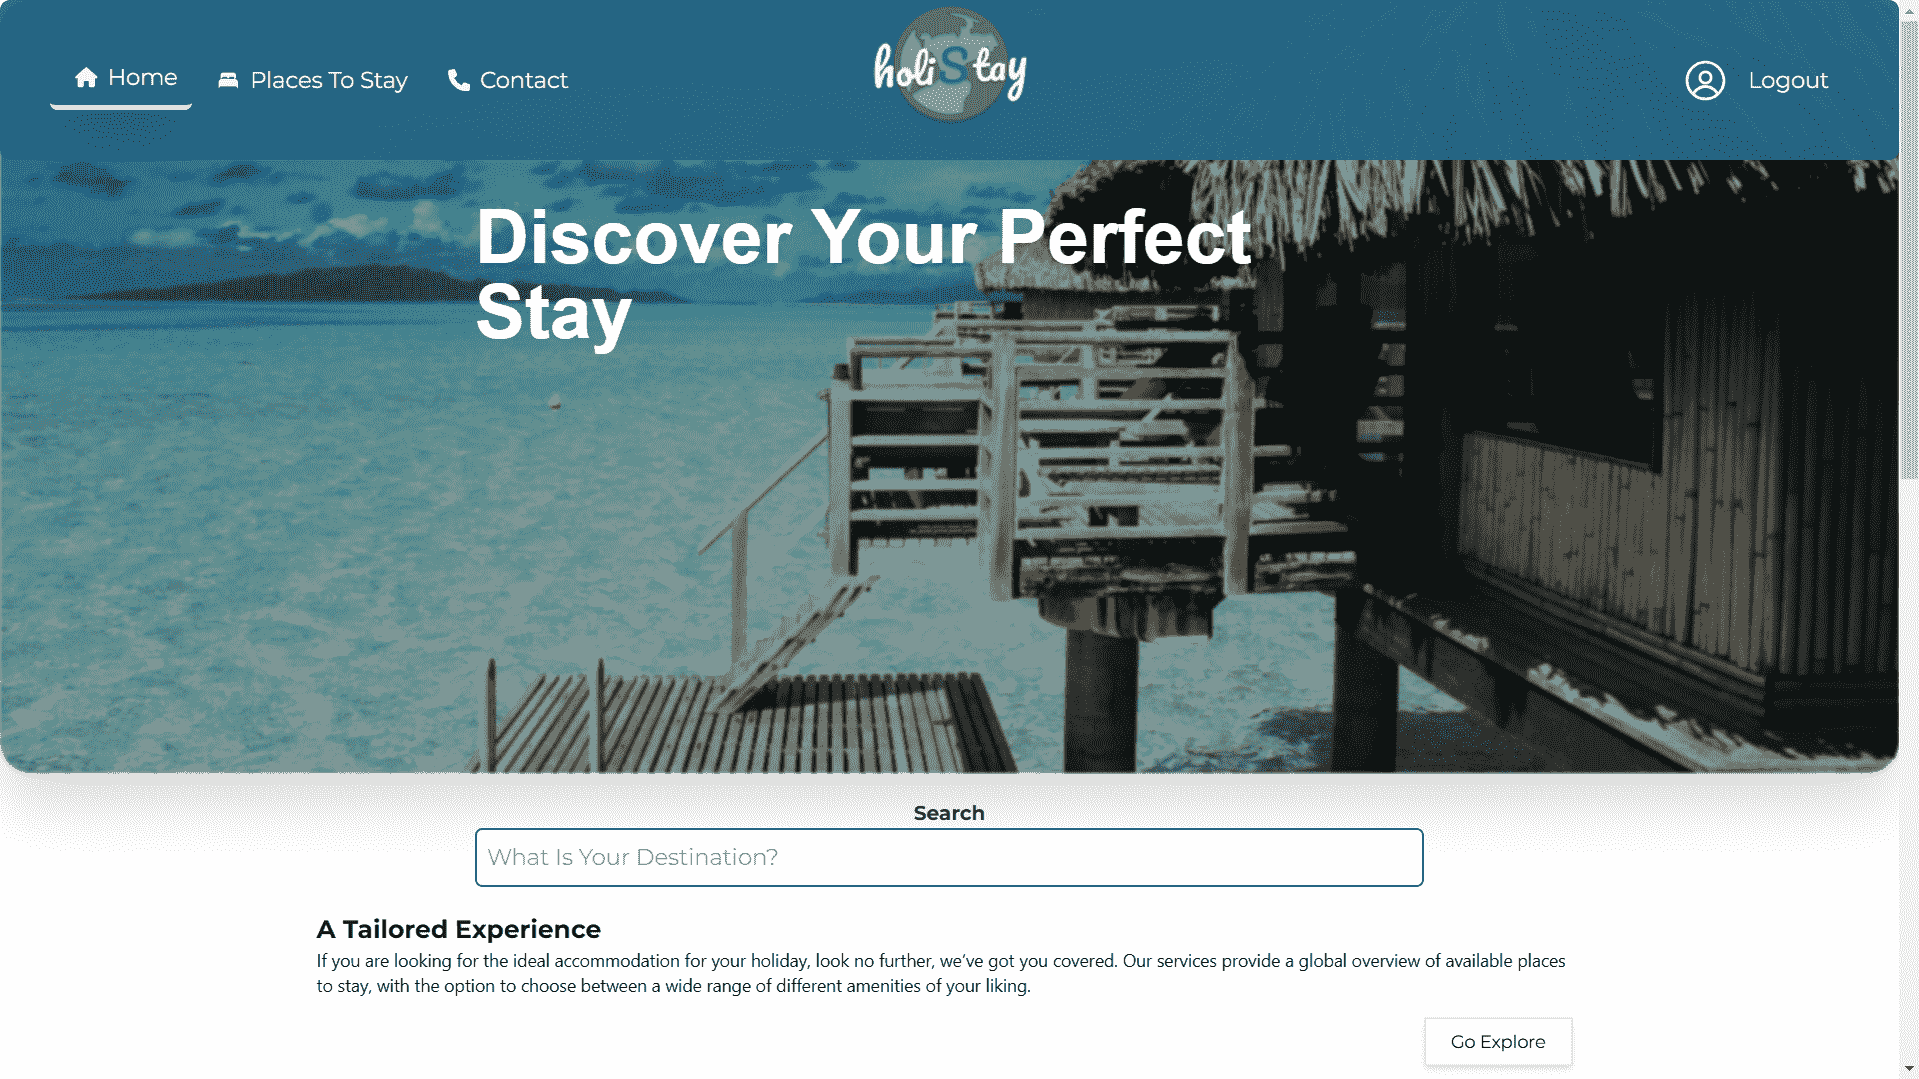
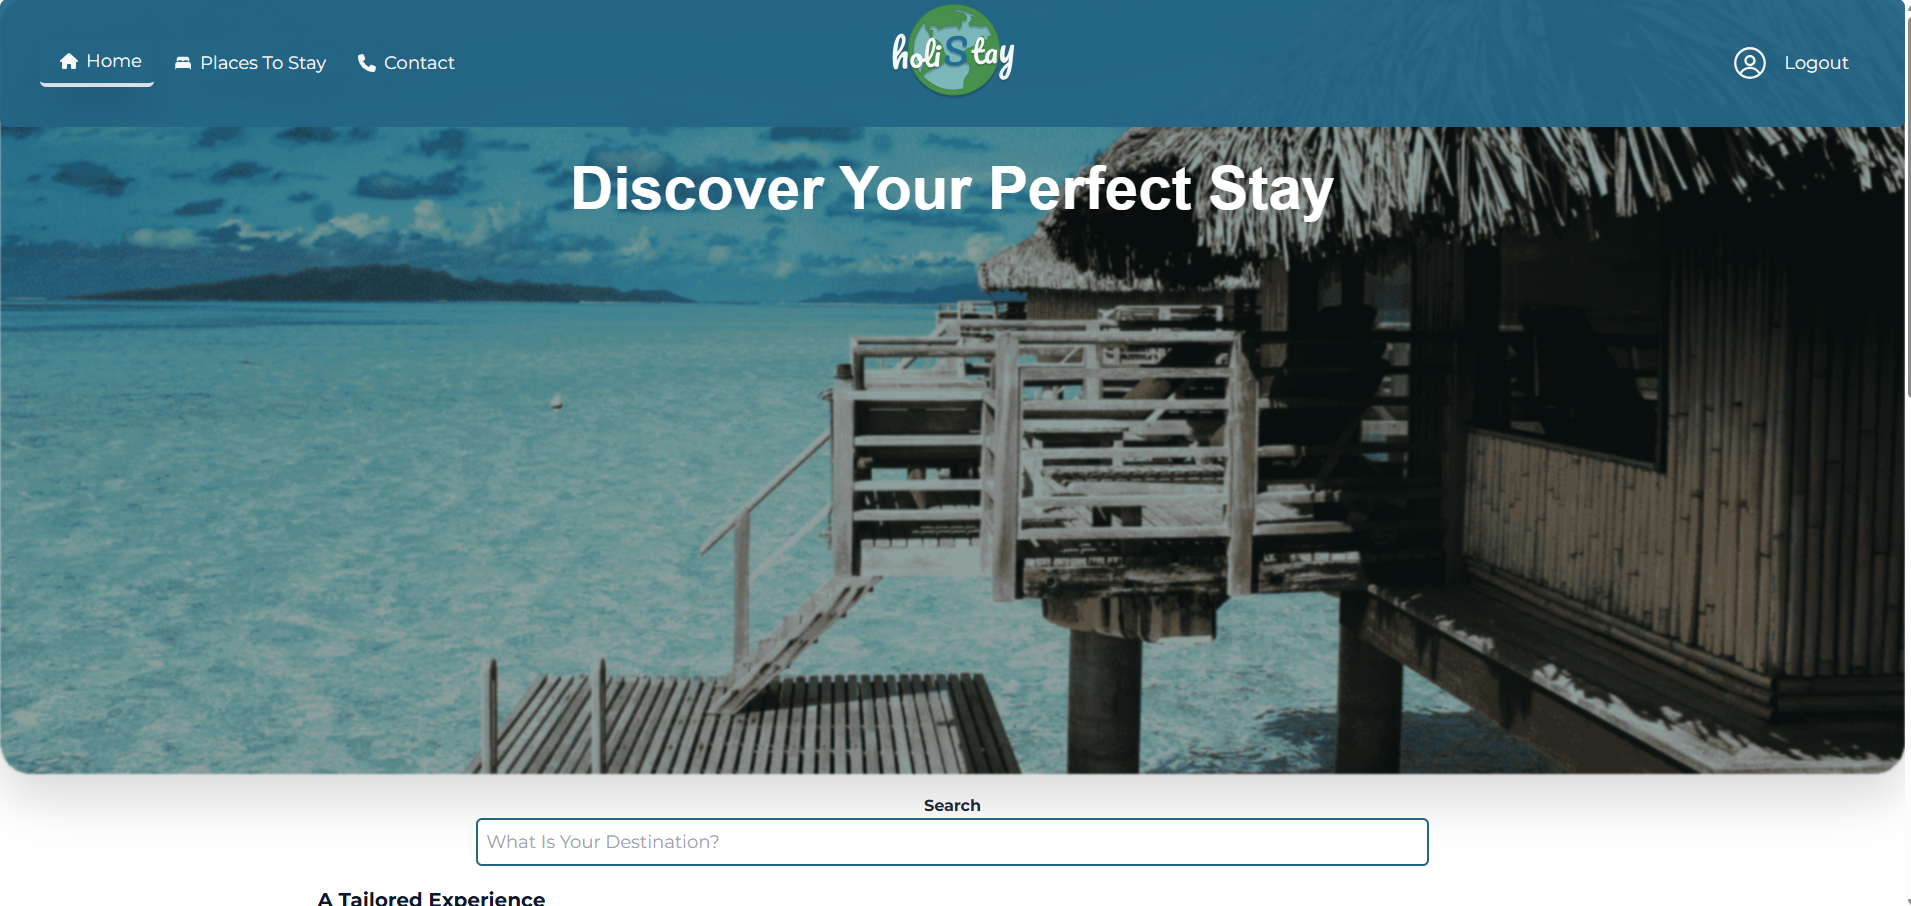
Edit styling in the homepage title

diff --git a/src/pages/Home.tsx b/src/pages/Home.tsx
@@ -22,7 +22,7 @@ const Home: React.FC = () => {
         alt="A beach view from a beachside-bungalow porch"
         className="w-full m-auto blur-xs relative rounded-3xl drop-shadow-2xl"
       />
-      <h1 className="absolute top-20 sm:top-40 left-1/2 transform -translate-x-1/2 text-sm sm:text-2xl md:text-3xl lg:text-4xl 2xl:text-6xl font-bold text-white mx-auto">
+      <h1 className="absolute top-20 sm:top-40 left-1/2 transform -translate-x-1/2 text-sm sm:text-2xl md:text-3xl lg:text-3xl 2xl:text-6xl font-bold text-white mx-auto">
         Discover Your Perfect Stay
       </h1>
       <SearchVenues />
